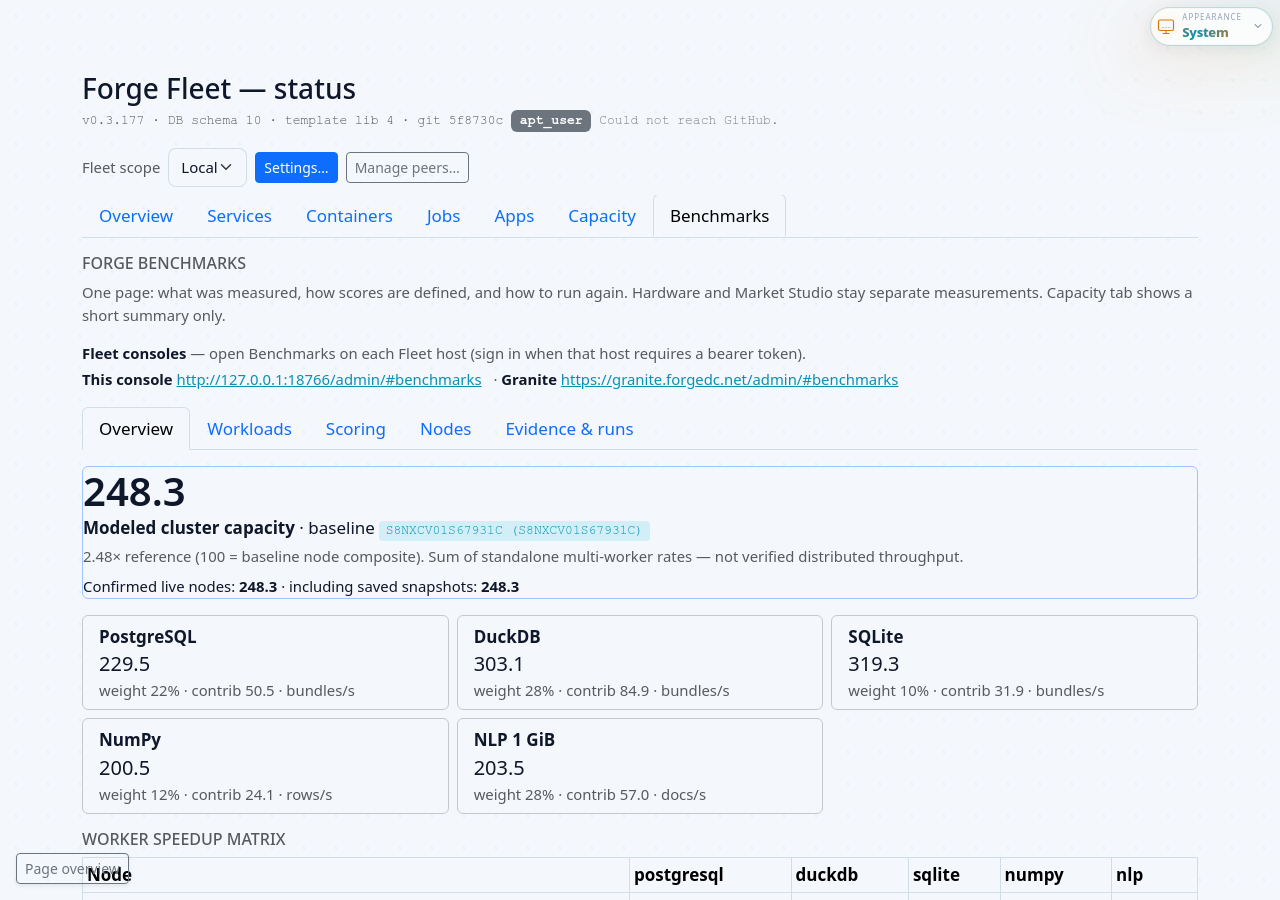
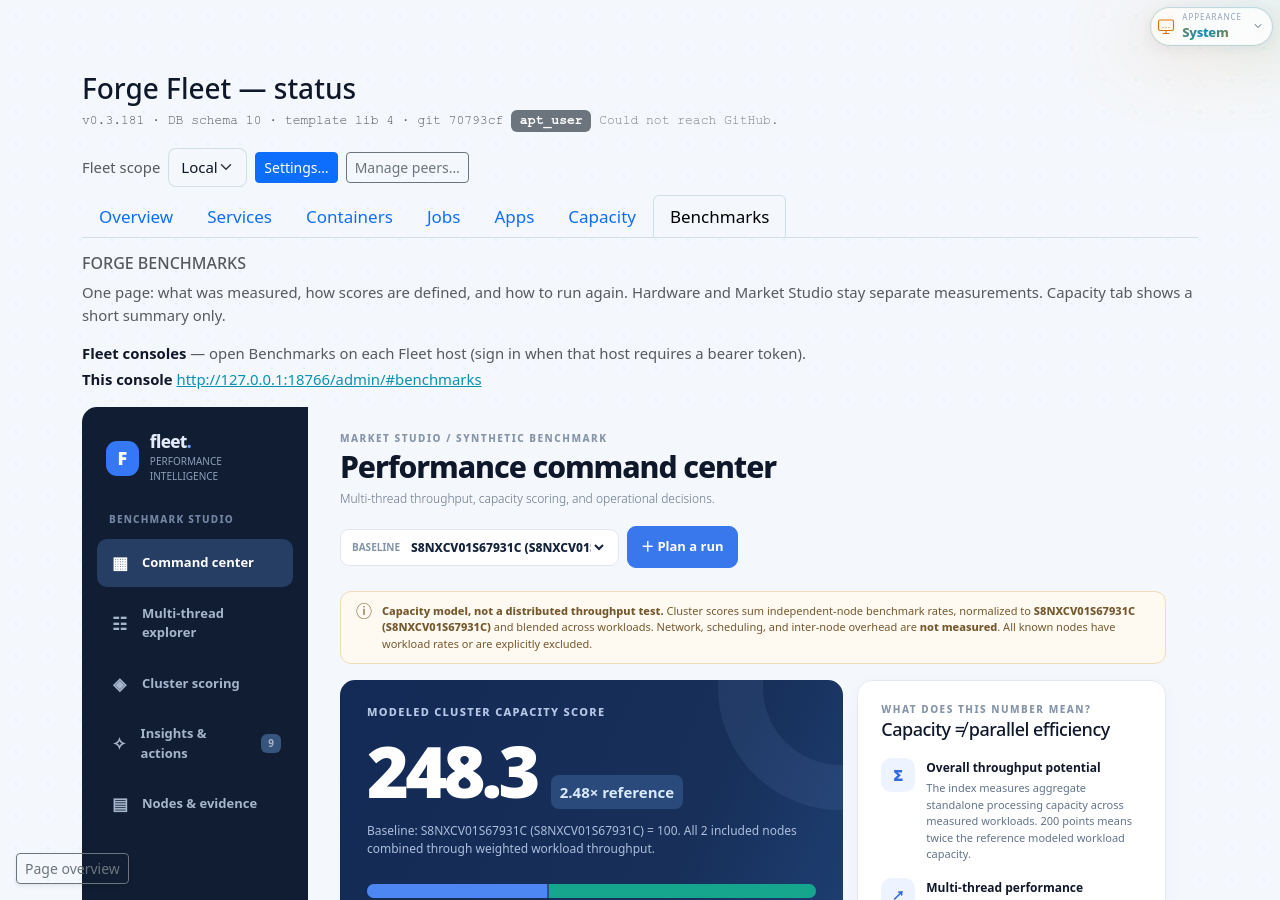
docs(fpi): P06 prototype fidelity verification and smoke shots
Update learn-101 rail IA, add P06 doc, refresh benchmarks screenshots
(desktop, insights, narrow) and smoke waits for navy hero .heroval.

diff --git a/docs/design/performance-intelligence/P06_PROTOTYPE_FIDELITY.md b/docs/design/performance-intelligence/P06_PROTOTYPE_FIDELITY.md
@@ -1,0 +1,36 @@
+# P06 — Prototype fidelity (Benchmarks studio)
+
+Date: 2026-11-04.
+
+## Goal
+
+Match the handoff clickable prototype (`fleet_performance_intelligence_v2.html`) inside the Fleet admin Benchmarks tab: light `.fpi` studio island, navy hero, left rail with five pages, KPI strip, component cards, scaling matrix, Decision signals, full insight cards, workload explorer, scoring anatomy, node provenance.
+
+## Delivered
+
+- [`fleet_server/static/performance-view.css`](../../fleet_server/static/performance-view.css) — prototype styles scoped under `.fpi` with `html[data-bs-theme="dark"] .fpi` token overrides.
+- [`fleet_server/static/performance-view.js`](../../fleet_server/static/performance-view.js) — single-root renderer with rail router; data from `GET /v1/mesh/benchmarks/score` unchanged.
+- [`fleet_server/static/admin.html`](../../fleet_server/static/admin.html) — `#fleet-perf-studio` shell; run controls remain in `#fleet-perf-evidence-static` (moved into Evidence page on render).
+
+## Deliberate deviations
+
+| Prototype | Fleet |
+| --- | --- |
+| Manual “Set Granite baseline” modal | Granite baseline from live standard runs only |
+| Demo literals (ASUS/Venus/Mercury names) | Live peer labels and evidence from adapter |
+| Standalone full-page app | Nested under Fleet admin shell + scope selector |
+| Light-only CSS file | Dark admin theme gets tuned `.fpi` dark tokens |
+
+## Evidence
+
+- `evidence/benchmarks-desktop.png` — Command center
+- `evidence/benchmarks-insights.png` — Insights & actions rail page
+- `evidence/benchmarks-narrow.png` — responsive rail collapse
+
+## Verify
+
+```
+pytest tests/test_admin_html_smoke.py::test_admin_benchmarks_performance_shell tests/test_perf_score_api.py -q
+node --check fleet_server/static/performance-view.js
+node scripts/smoke-admin-ui.mjs --base http://127.0.0.1:18766
+```

diff --git a/docs/design/performance-intelligence/P05_VERIFICATION.md b/docs/design/performance-intelligence/P05_VERIFICATION.md
@@ -12,12 +12,13 @@ Date: 2026-11-04.
 | P03 UI | Complete — `performance-view.js`, tabbed Benchmarks admin |
 | P04 Insights | Complete — `fleet_server/perf_insights.py` |
 | P05 Verify + docs | This report |
+| P06 Prototype fidelity | Complete — scoped `.fpi` studio, rail IA, handoff visual parity |
 
 ## Paths changed (high level)
 
 - Domain: `fleet_server/perf_scoring.py`, `fleet_server/perf_insights.py`
 - Integration: `fleet_server/fmsbench_runs.py`, `fleet_server/main.py`, `fleet_server/route_registry.py`
-- UI: `fleet_server/static/performance-view.js`, `admin.html`, `capacity.js`
+- UI: `fleet_server/static/performance-view.js`, `performance-view.css`, `admin.html`, `capacity.js`
 - Tests: `tests/test_perf_*.py`, `tests/fixtures/perf_screenshot_fixture.json`
 - Docs: `docs/design/performance-intelligence/*`, `docs/learn-101/11-forge-benchmarks.md`, `docs/reference/01-http-api-reference.md`, `docs/schemas/openapi.json`
 
@@ -47,7 +48,7 @@ python -m unittest discover -s /tmp/fpi-handoff/fleet_performance_intelligence_c
 
 - Admin shell smoke: `node scripts/smoke-admin-ui.mjs --base http://127.0.0.1:18766` (2026-11-04, local user service).
 - Benchmarks hero renders from `GET /v1/mesh/benchmarks/score` (live modeled cluster **248.3** on this host, baseline local).
-- Screenshots: `docs/design/performance-intelligence/evidence/benchmarks-desktop.png` (1280×900) and `benchmarks-narrow.png` (390×844).
+- Screenshots: `docs/design/performance-intelligence/evidence/benchmarks-desktop.png` (1280×900), `benchmarks-insights.png`, and `benchmarks-narrow.png` (390×844).
 - Remaining smoke issue: overview `#fleet-load-chart` has no SVG on this host (pre-existing telemetry chart, not the performance score view).
 
 ## Acceptance criteria (mandatory)

diff --git a/docs/learn-101/11-forge-benchmarks.md b/docs/learn-101/11-forge-benchmarks.md
@@ -4,7 +4,7 @@
 
 **Audience:** operators comparing Fleet hosts. **Time:** ~15 minutes. **Verify:** **`GET /v1/mesh/benchmarks`** returns `composite_model: additive_host_threads` and a `cluster_score`.
 
-Forge Benchmarks live on **`/admin/` → Benchmarks** as a tabbed **Performance Intelligence** view: modeled cluster capacity (trust-first headline from confirmed live nodes), workload component scores, worker speedup matrix, deterministic findings, editable baseline/weights, and evidence/run controls. **Capacity** keeps guardians and a compact composite table next to live headroom; it does not start a run. Two measurements stay in different columns and different files.
+Forge Benchmarks live on **`/admin/` → Benchmarks** as a **Performance Intelligence studio**: a left rail (Command center, Multi-thread explorer, Cluster scoring, Insights & actions, Nodes & evidence), navy hero with modeled cluster capacity, workload component cards, scaling matrix, deterministic Observation/Means/Action findings, editable baseline/weights on Cluster scoring, and run controls on Nodes & evidence. **Capacity** keeps guardians and a compact composite table next to live headroom; it does not start a run. Two measurements stay in different columns and different files.
 
 | Measurement | What it is | Where it is stored |
 | --- | --- | --- |
